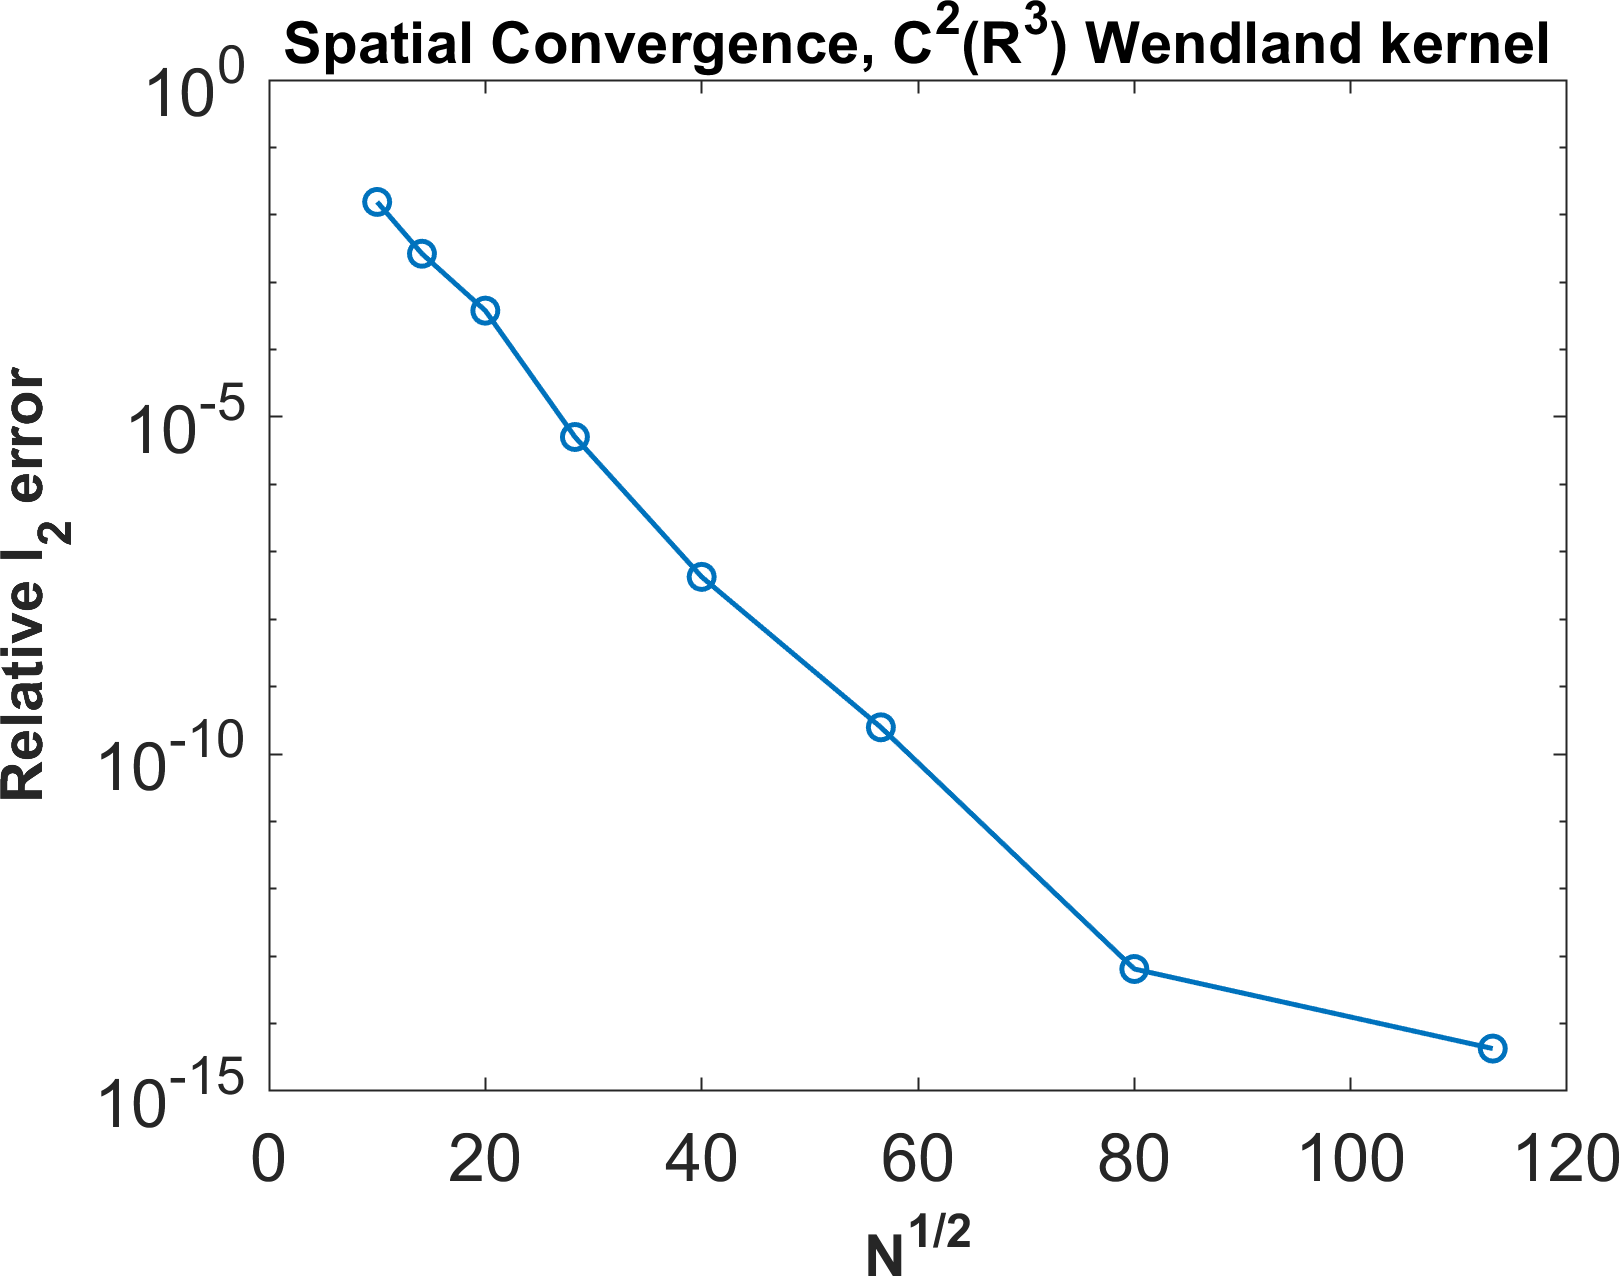
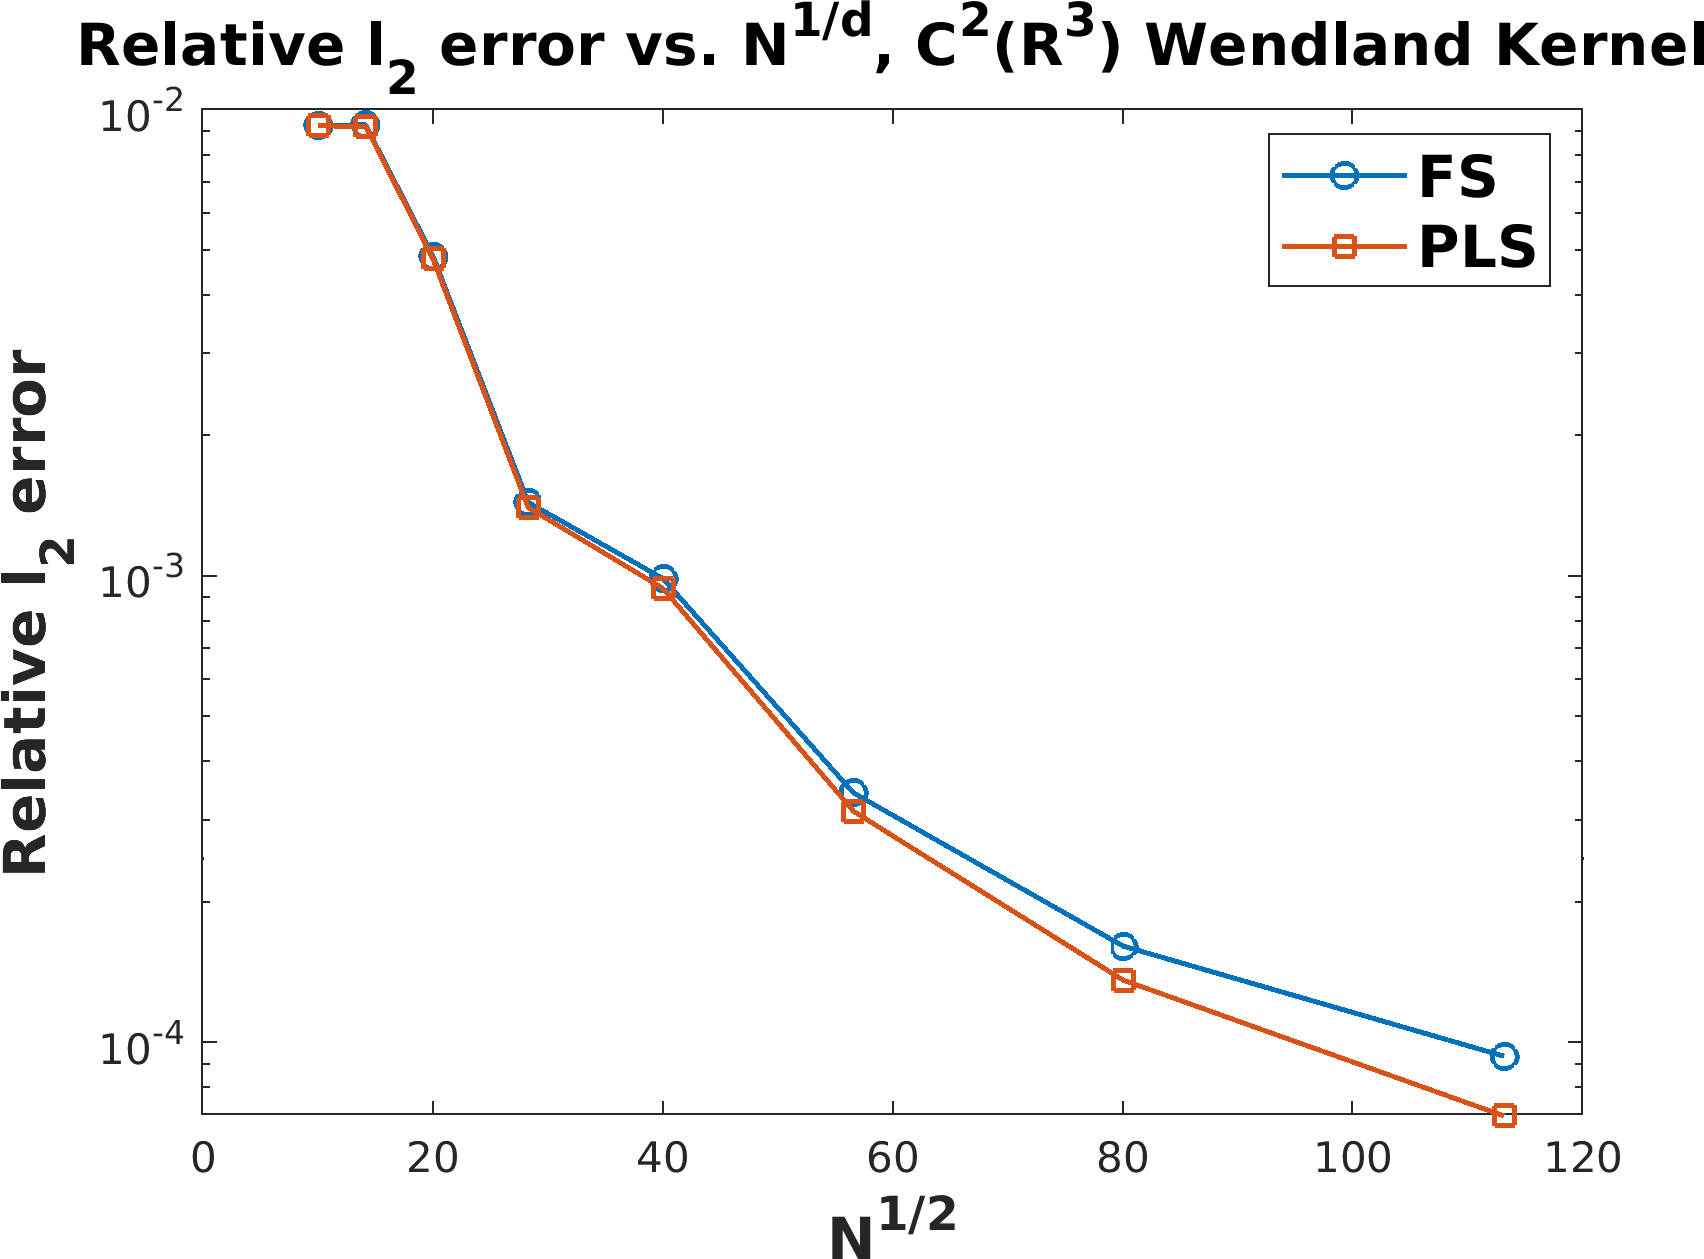
final code and plot commits

diff --git a/code/Approximation/CleanLagrangeApprox/SphereTest.m b/code/Approximation/CleanLagrangeApprox/SphereTest.m
@@ -16,7 +16,7 @@ rb = 1/3;
 %f = @(x) (acos(x(:,1))<rb).* (1 + cos(pi*acos(x(:,1))/rb))/2; %C^1
 %f = @(x) abs(x(:,1)).^3.*abs(x(:,2)).^3.*abs(x(:,3)).^3;
 %f = @(x) abs(x(:,1) - 0.3).^3;
-f = @(x) (x(:,1).^2).*abs(x(:,1)) + x(:,2).^2.*abs(x(:,2)) + x(:,3).^2.*abs(x(:,3)); 
+f = @(x) (x(:,1).^2).*abs(x(:,1)) + x(:,2).^2.*abs(x(:,2)) + x(:,3).^2.*abs(x(:,3));
 
 
 %% Evaluate this target at the eval points
@@ -44,8 +44,25 @@ for k=1:length(Ns)
     ell = floor(nthroot(length(x),3)); 
 
     %% Do poly least squares with rank-revealing QR
-    [el2_poly(k),elinf_poly(k),a_time_poly(k),e_time_poly(k),~] = PLSManifold(x,f_x,ell,xe,0,f_xe);
+    [el2_poly(k,1),elinf_poly(k),a_time_poly(k),e_time_poly(k),~] = PLSManifold(x,f_x,ell,xe,0,f_xe);
 
     %% Do a CSRBF + poly fit that uses a rank-revealing QR
    [el2(k,1),elinf(k,1),a_time(k,1),e_time(k,1),~,cond_num(k,1),~, sparsity(k,1)] = CSRBFGenManifold(x,f_x,ell,xe,0,rbf,7,tree,f_xe);   
 end
+
+% results_dir('results');
+
+h=figure;
+set(h, 'Color', 'none');          
+ax = gca;
+set(ax, 'Color', 'none','FontSize', 12,'LineWidth', 1.2,'TickLabelInterpreter', 'latex');     
+marks = {'-o','-s','-^','-x','-+'};
+semilogy(sqrt(Ns), el2(:),marks{1}, 'LineWidth',1.2);
+hold on;
+semilogy(sqrt(Ns), el2_poly(:),marks{2}, 'LineWidth',1.2);
+xlabel('N^{1/2}','Interpreter','tex','FontSize',14,'FontWeight','bold');
+ylabel('Relative l_2 error','Interpreter','tex','FontSize',14,'FontWeight','bold');
+legend({'FS','PLS'}, 'Location','best','Interpreter','tex','FontWeight','bold','FontSize',14);
+title(sprintf('Relative l_2 error vs. N^{1/d}, C^2(R^3) Wendland Kernel'),'Interpreter','tex','FontWeight','bold','FontSize',14);
+%export_fig(gcf, fullfile(res.results_dir,'error_vs_N_fs_s%d.png'),'-png','-r300','-transparent');
+%close(h);

diff --git a/code/Approximation/CleanLagrangeApprox/TorusTest.m b/code/Approximation/CleanLagrangeApprox/TorusTest.m
@@ -40,8 +40,27 @@ for k=1:length(n)
     f_x(isnan(f_x)) = 0;
 
     %% Get the polynomial degree. We'll use ambient polynomials in R^3
-    ell = floor(0.8*nthroot(length(x),3));   
+    ell = floor(nthroot(length(x),3));   
+
+    %% Do poly least squares with rank-revealing QR
+    [el2_poly(k,1),elinf_poly(k),a_time_poly(k),e_time_poly(k),~] = PLSManifold(x,f_x,ell,xe,0,f_xe);
+    
 
     %% Do a CSRBF + poly fit that uses a rank-revealing QR
-   [el2(k,1),elinf(k,1),a_time(k,1),e_time(k,1),~,cond_num(k,1),~, sparsity(k,1)] = CSRBFGenManifold(x,f_x,ell,xe,0,rbf,5,tree,f_xe);   
+   [el2(k,1),elinf(k,1),a_time(k,1),e_time(k,1),~,cond_num(k,1),~, sparsity(k,1)] = CSRBFGenManifold(x,f_x,ell,xe,0,rbf,7,tree,f_xe);   
 end
+
+h=figure;
+set(h, 'Color', 'none');          
+ax = gca;
+set(ax, 'Color', 'none','FontSize', 12,'LineWidth', 1.2,'TickLabelInterpreter', 'latex');     
+marks = {'-o','-s','-^','-x','-+'};
+semilogy(sqrt(n), el2(:),marks{1}, 'LineWidth',1.2);
+hold on;
+semilogy(sqrt(n), el2_poly(:),marks{2}, 'LineWidth',1.2);
+xlabel('N^{1/2}','Interpreter','tex','FontSize',14,'FontWeight','bold');
+ylabel('Relative l_2 error','Interpreter','tex','FontSize',14,'FontWeight','bold');
+legend({'FS','PLS'}, 'Location','best','Interpreter','tex','FontWeight','bold','FontSize',14);
+title(sprintf('Relative l_2 error vs. N^{1/d}, C^2(R^3) Wendland Kernel'),'Interpreter','tex','FontWeight','bold','FontSize',14);
+%export_fig(gcf, fullfile(res.results_dir,'error_vs_N_fs_s%d.png'),'-png','-r300','-transparent');
+%close(h);

diff --git a/code/Approximation/CleanLagrangeApprox/ManifoldWithBoundaryTest.m b/code/Approximation/CleanLagrangeApprox/ManifoldWithBoundaryTest.m
@@ -55,8 +55,22 @@ for k=1:length(Ns)
     ell = floor(nthroot(length(x),3)); 
 
     %% Do poly least squares with rank-revealing QR
-    [el2_poly(k),elinf_poly(k),a_time_poly(k),e_time_poly(k),~] = PLSManifold(x,f_x,ell,xe,0,f_xe);
+    [el2_poly(k,1),elinf_poly(k),a_time_poly(k),e_time_poly(k),~] = PLSManifold(x,f_x,ell,xe,0,f_xe);
 
     %% Do a CSRBF + poly fit that uses a rank-revealing QR
    [el2(k,1),elinf(k,1),a_time(k,1),e_time(k,1),~,cond_num(k,1),~, sparsity(k,1)] = CSRBFGenManifold(x,f_x,ell,xe,0,rbf,7,tree,f_xe);   
 end
+
+h=figure;
+set(h, 'Color', 'none');          
+ax = gca;
+set(ax, 'Color', 'none','FontSize', 12,'LineWidth', 1.2,'TickLabelInterpreter', 'latex');     
+marks = {'-o','-s','-^','-x','-+'};
+semilogy(sqrt(Ns), el2(:),marks{1}, 'LineWidth',1.2); hold on;
+semilogy(sqrt(Ns), el2_poly(:),marks{2}, 'LineWidth',1.2);
+xlabel('N^{1/2}','Interpreter','tex','FontSize',14,'FontWeight','bold');
+ylabel('Relative l_2 error','Interpreter','tex','FontSize',14,'FontWeight','bold');
+legend({'FS','PLS'}, 'Location','best','Interpreter','tex','FontWeight','bold','FontSize',14);
+title(sprintf('Relative l_2 error vs. N^{1/d}, C^2(R^3) Wendland Kernel'),'Interpreter','tex','FontWeight','bold','FontSize',14);
+%export_fig(gcf, fullfile(res.results_dir,'error_vs_N_fs_s%d.png'),'-png','-r300','-transparent');
+%close(h);
